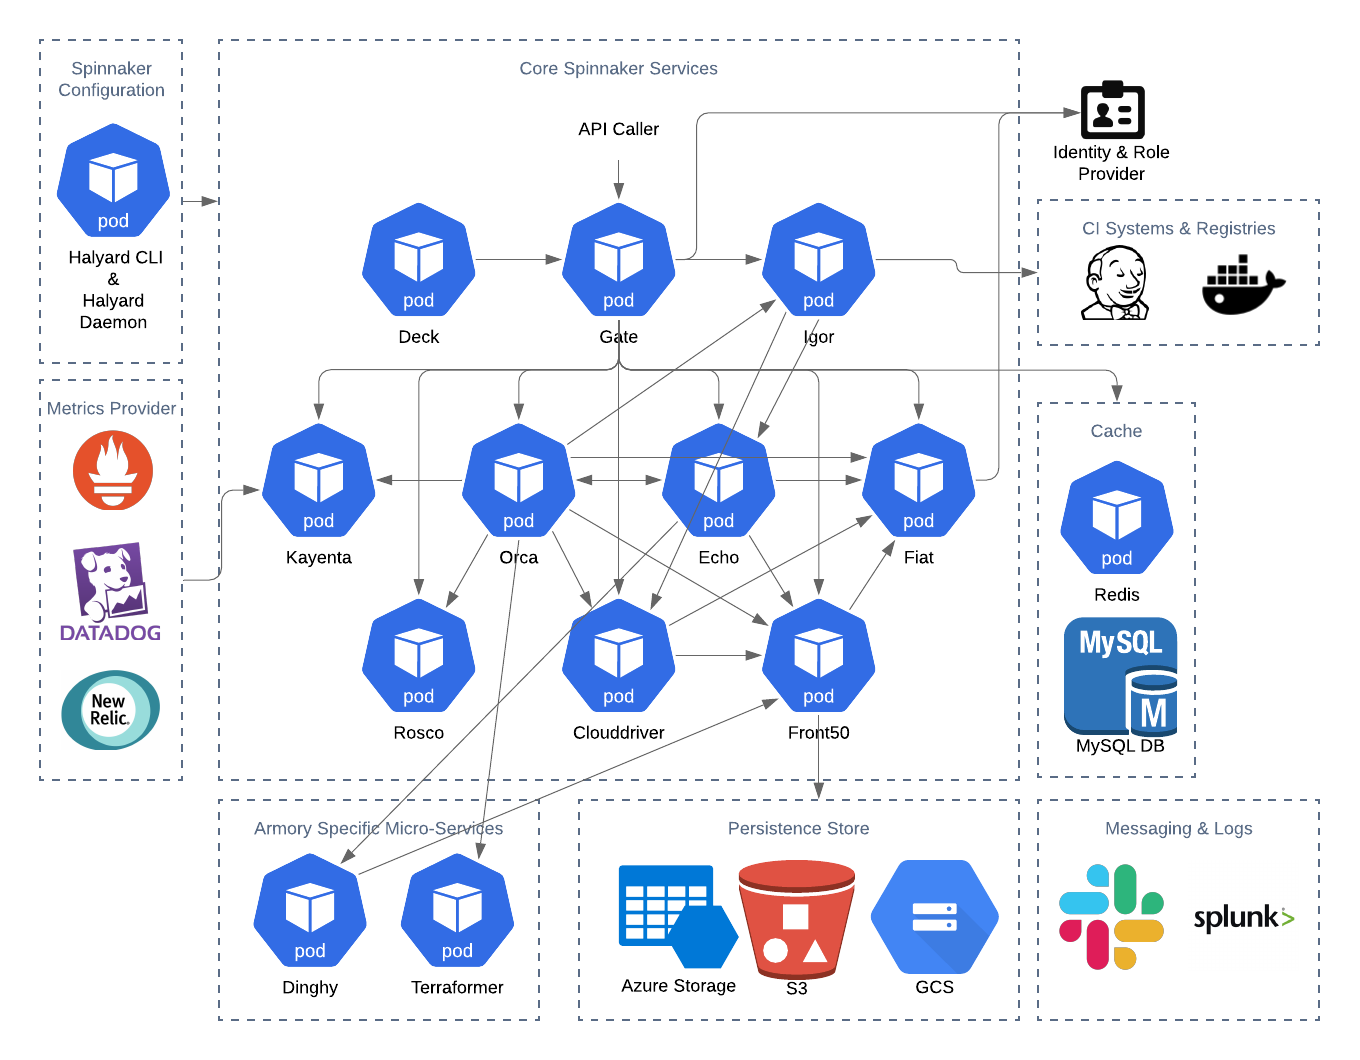
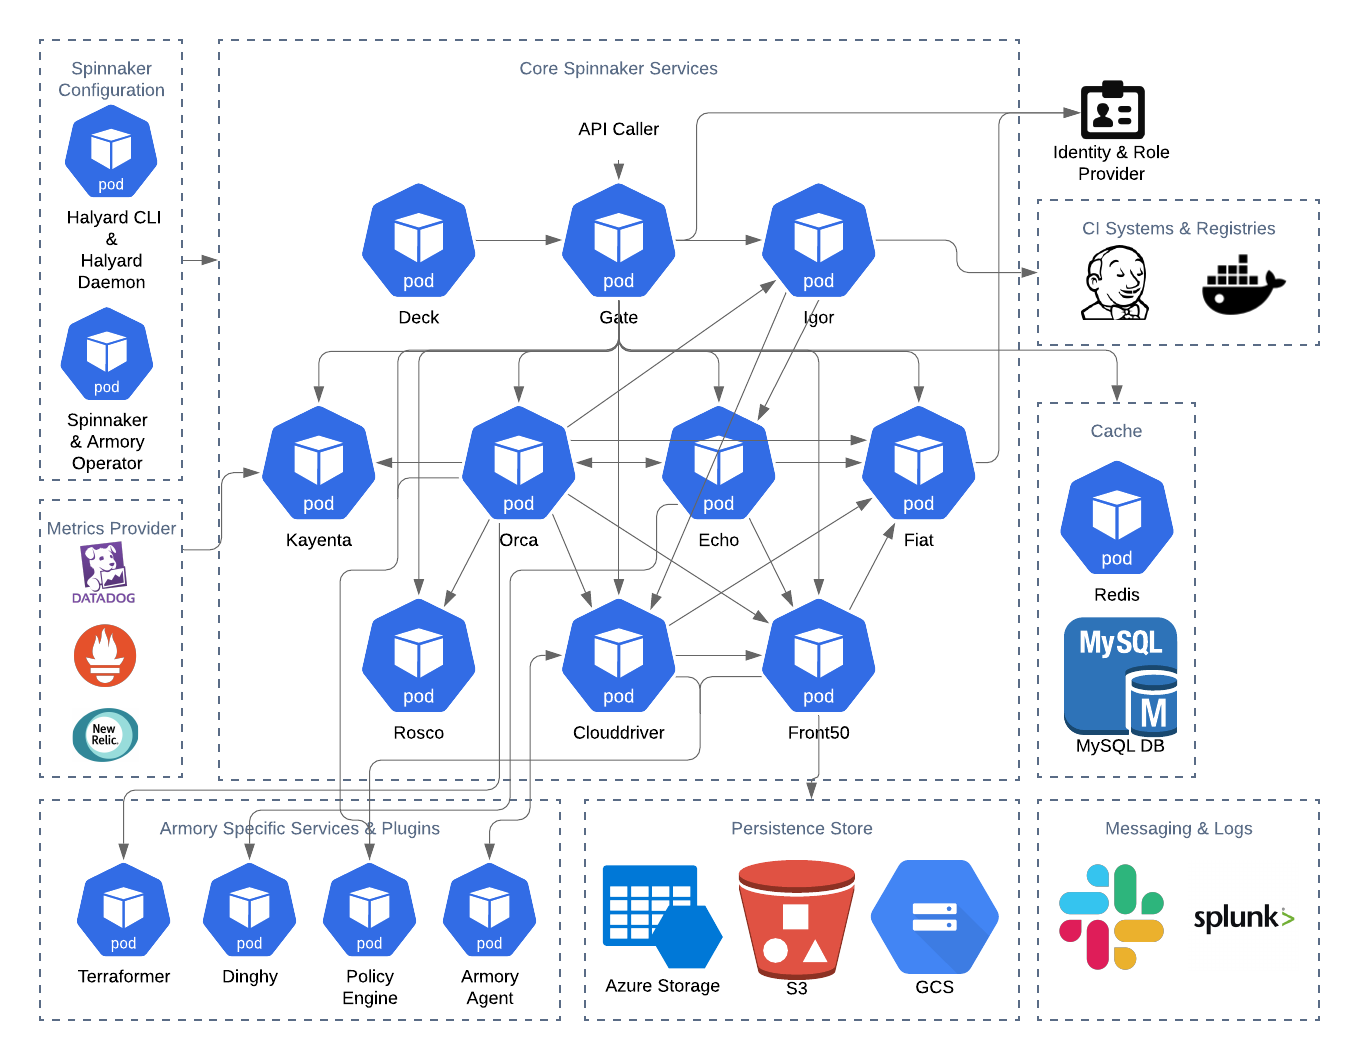
feat(overview): update spinnaker architecture diagram (#667)
* feat(overview): update spinnaker architecture diagram

* add missing services and installers

diff --git a/content/en/docs/Overview/architecture.md b/content/en/docs/Overview/architecture.md
@@ -7,62 +7,85 @@ aliases:
   - /spinnaker-install-admin-guides/architecture/
 ---
 
-## Spinnaker architecture
+## Armory Enterprise architecture
 
-Spinnaker is composed of several microservices for resiliency and follows
-the single-responsibility principle. It allows for faster iteration on each
-individual component and a more pluggable architecture for custom components.
+Armory Enterprise is an enterprise version of open source [Spinnaker](https://spinnaker.io/). It is composed of several microservices for resiliency and follows the single-responsibility principle. It allows for faster iteration on each individual component and a more pluggable architecture for custom components.
 
 ![Architecture Diagram](/images/overview/SpinnakerArchitecture.png)
 
-## Spinnaker microservices
-
-### Orca
-
-Orca is responsible for the orchestration of pipelines, stages and tasks within Spinnaker.  It acts as the "traffic cop" within Spinnaker making sure that sub-services, their executions and states are passed along correctly.
-
-The smallest atomic unit within Orca is a task - stages are composed of tasks and pipelines are composed of stages.  
+## Armory Enterprise microservices
 
 ### Clouddriver
 
-Clouddriver is a core component of Spinnaker which facilitates the interactions between a given cloud provider such as AWS, GCP or Kubernetes.  There is a common interface that is used so that additional cloud providers can be added.
-
-### Gate
-
-Gate is the front-end API that is exposed to the users of your Spinnaker instance.  It also manages authentication and authorization for sub-service APIs and resources with Spinnaker.  All communication between the UI and the back-end services happen through Gate.  You can find a list of the endpoints available through Swagger:  `http://${GATE_HOST}:8084/swagger-ui.html`
-
-### Rosco
-
-Rosco is the "bakery" service.  It is a wrapper around Hashicorp's Packer command line tool which bakes images for AWS, GCP, Docker, Azure, and [other builders](https://www.packer.io/docs/builders).
+Clouddriver is a core component of Armory Enterprise and facilitates the interaction between a given cloud provider such as AWS, GCP or Kubernetes. There is a common interface that is used so that additional cloud providers can be added.
 
 ### Deck
 
-Deck is the UI for interactive and visualizing the state of cloud resources.  It is written entirely in Angular and depends on Gate to interact with the cloud providers.
-
-### Igor
-
-Igor is a wrapper API which communicates with Jenkins.  It is responsible for kicking-off jobs and reporting the state of running or completing jobs.
+Deck is the UI for interactive and visualizing the state of cloud resources.  It depends on Gate to interact with the cloud providers.
 
 ### Echo
 
-Echo is the service for Spinnaker which manages notifications, alerts and scheduled pipelines (Cron).  It can also propagate these events out to other REST endpoints such as an Elastic Search, Splunk's HTTP Event Collector or a custom event collector/processor.
+Echo is the service for Spinnaker which manages notifications, alerts and scheduled pipelines (Cron). It can also propagate these events out to other REST endpoints such as an Elastic Search, Splunk's HTTP Event Collector or a custom event collector/processor.
+
+### Fiat
+
+Fiat is the microservice responsible for authorization (authz) for the other microservices. By default, it is not enabled, so users are able to perform any action in Armory Enterprise.
 
 ### Front50
 
 Front50 is the persistent datastore for Spinnaker. Most notabily pipelines, configurations, and jobs.
 
+### Gate
+
+Gate is the front-end API that is exposed to the users of your Spinnaker instance. It also manages authentication and authorization for sub-service APIs and resources with Spinnaker.  All communication between the UI and the back-end services happen through Gate.  You can find a list of the endpoints available through Swagger:  `http://${GATE_HOST}:8084/swagger-ui.html`
+
+### Igor
+
+Igor is a wrapper API which communicates with Jenkins.  It is responsible for kicking-off jobs and reporting the state of running or completing jobs.
+
 ### Kayenta
 
 Kayenta is Spinnaker's canary analysis service, integrating with 3rd party monitoring services such as Datadog or Prometheus.
 
-## Armory specific microservices
+### Orca
+
+Orca is responsible for the orchestration of pipelines, stages, and tasks within Armory Enterprise. Orca acts as the "traffic cop" within Armory Enterprise making sure that sub-services, their executions and states are passed along correctly.
+
+The smallest atomic unit within Orca is a task - stages are composed of tasks and pipelines are composed of stages.  
+
+### Rosco
+
+Rosco is the "bakery" service. It is a wrapper around Hashicorp's Packer command line tool which bakes images for AWS, GCP, Docker, Azure, and [other builders](https://www.packer.io/docs/builders).
+
+## Armory Enterprise proprietary microservices
+![Proprietary](/images/proprietary.svg)
+
+### Armory Agent for Kubernetes
+
+The [Armory Agent]({{< ref "armory-agent" >}}) is a lightweight, scalable service that monitors your Kubernetes infrastructure and streams changes back to the Clouddriver service.
 
 ### Dinghy
 
-Dinghy is the Armory-specific microservice used to manage Pipelines as Code.  It supports two main capabilities:
+[Dinghy]({{< ref "dinghy-enable" >}}) is the microservice used to manage Pipelines as Code. It supports two main capabilities:
 
-* Automatically synchronizing pipeline definitions from an external Github or BitBucket repository to Armory .
+* Automatically synchronizing pipeline definitions from an external Github or BitBucket repository to Armory.
 * Creating a library of pipeline modules (components) that can be templatized and used in Dinghy-managed pipeline definitions.
 
-### Terrafomer
-Terraformer is the Armory-specific microservice behind Armory's Terraform Integration. It allows Armory to natively use your infrastructure-as-code Terraform scripts as part of a deployment pipeline.
+### Policy Engine
+
+The [Armory Policy Engine]({{< ref "policy-engine-enable" >}}) is designed to allow enterprises more complete control of their software delivery process by providing them with the hooks necessary to perform more extensive verification of their pipelines and processes in Spinnaker. This policy engine is backed by Open Policy Agent(OPA) and uses input style documents to perform validation of pipelines during save time and runtime
+
+### Terraformer
+
+[Terraformer]({{< ref "terraform-enable-integration" >}}) is the microservice behind Armory's Terraform Integration. It allows Armory to natively use your infrastructure-as-code Terraform scripts as part of a deployment pipeline.
+
+## Installation and management
+![Proprietary](/images/proprietary.svg)
+
+### Armory Operator
+
+The [Armory Operator]({{< ref "armory-operator" >}}) is a Kubernetes Operator that makes it easy to install, deploy, and upgrade Armory Enterprise.
+
+### Armory Halyard
+
+[Armory-extended Halyard]({{< ref "armory-halyard" >}}) is a versatile command line interface (CLI) to configure and deploy Armory Enterprise in Kubernetes or any cloud environment.
